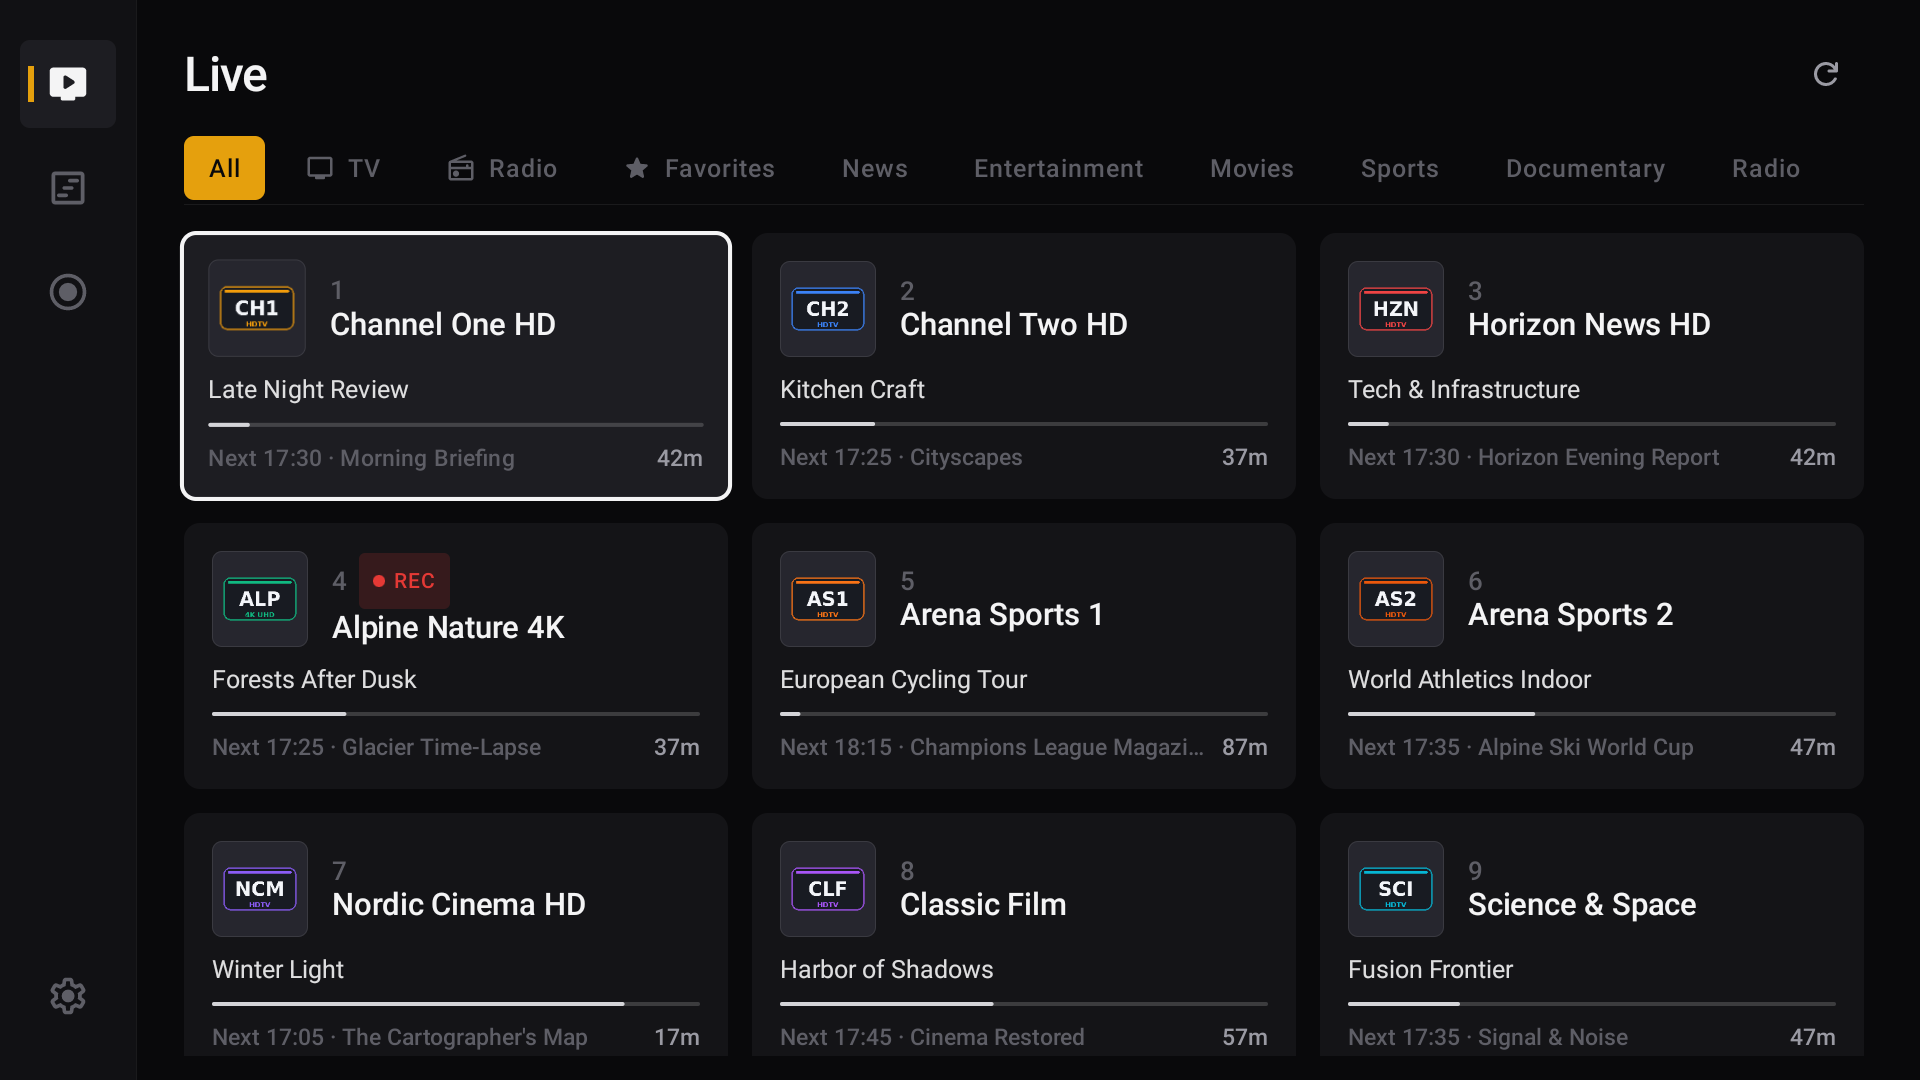
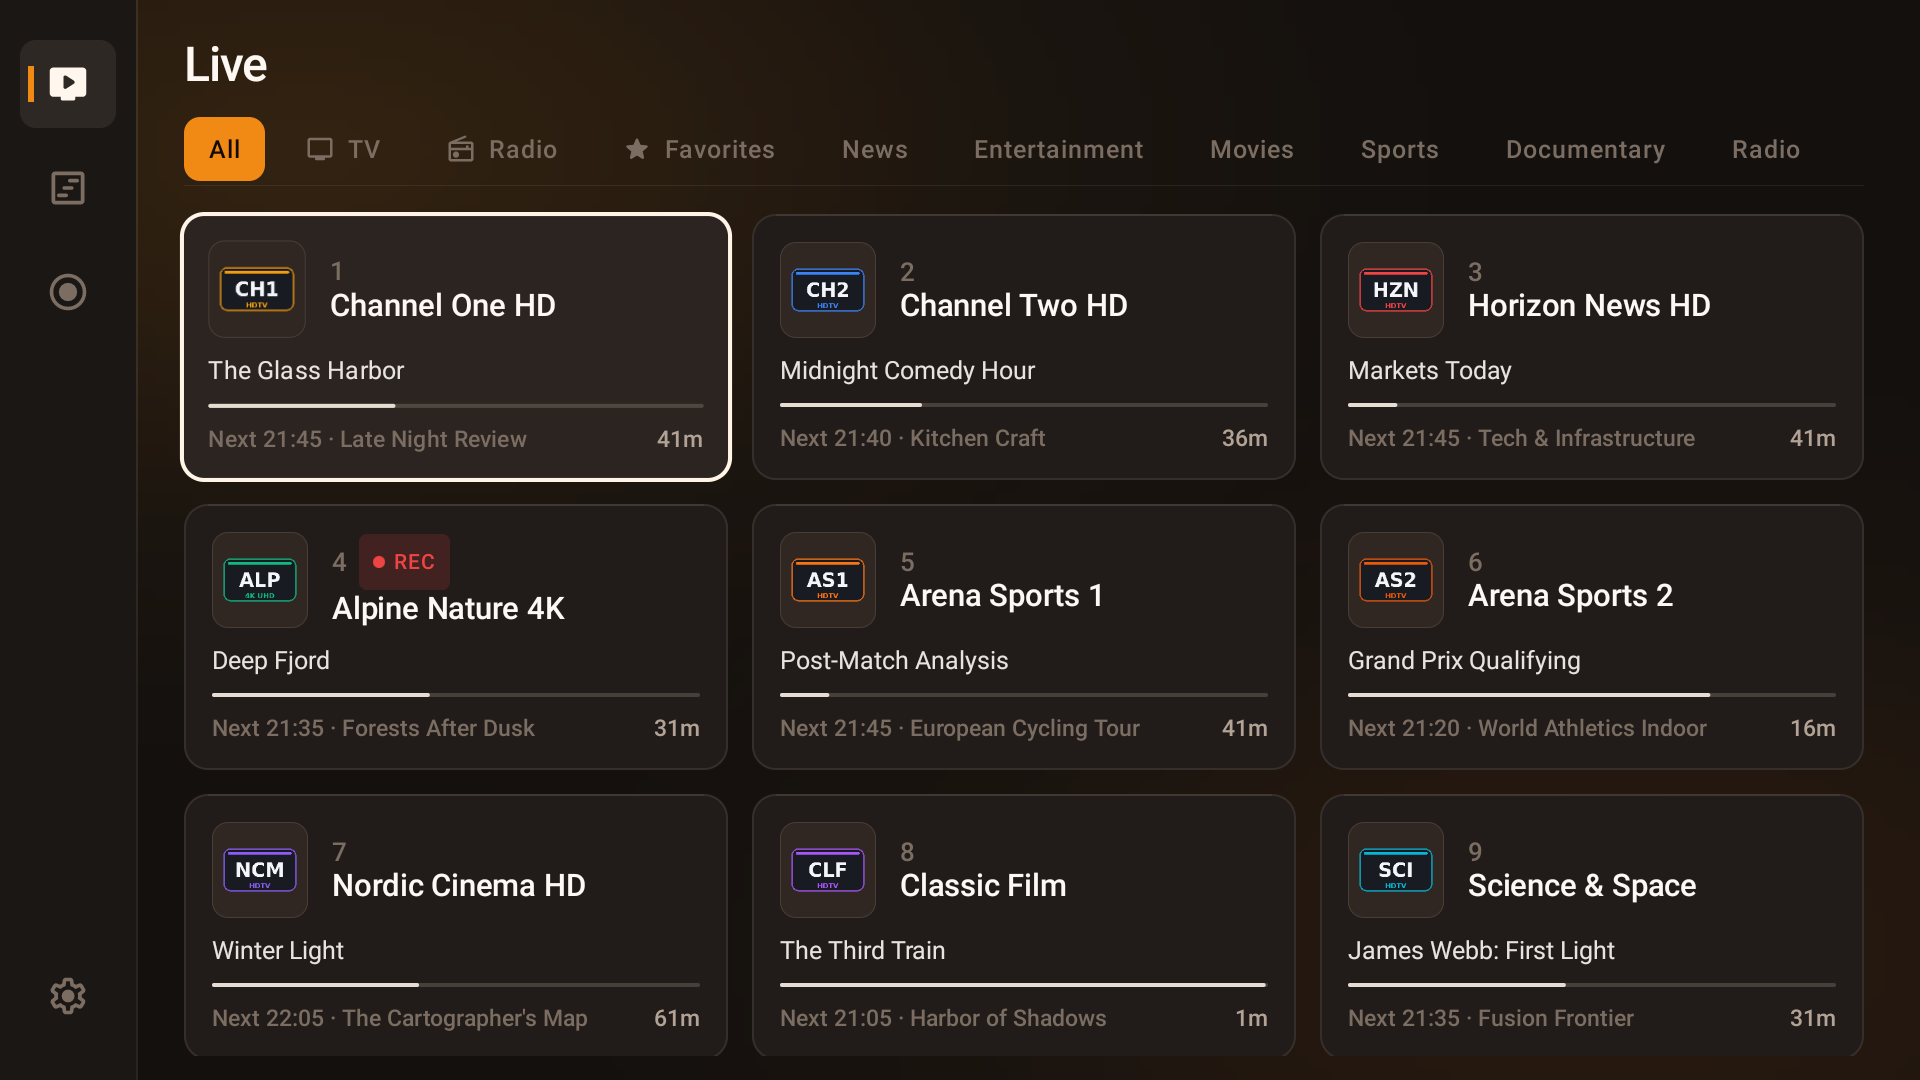
chore: release v0.9.0

diff --git a/README.md b/README.md
@@ -8,7 +8,7 @@
   <a href="#download--install"><img src="https://img.shields.io/badge/minSdk-28%20(Android%209%2B)-3DDC84?logo=android&logoColor=white" alt="minSdk 28 (Android 9+)" /></a>
 </p>
 
-A lightweight, native Android and Android TV client for **Tvheadend** (`4.3+`), built for sub-second channel zapping, local live pause/rewind (timeshift), smooth playback of completed and actively recording DVR shows, background audio playback on mobile, and a low-glare **Broadcast Monitor** dark interface (Carbon & Signal Amber).
+A lightweight, native Android and Android TV client for **Tvheadend** (`4.3+`), built for sub-second channel zapping, local live pause/rewind (timeshift), smooth playback of completed and actively recording DVR shows, background audio playback on mobile, and a low-glare **Broadcast Monitor** dark interface across four themes (**Amber**, **Carbon**, **Aurora**, and **Indigo**).
 
 Built as a **single unified codebase** producing ABI-split APKs for Android phones, tablets, and Android TV / Google TV devices (`minSdk 28`).
 
@@ -40,21 +40,23 @@ Built as a **single unified codebase** producing ABI-split APKs for Android phon
   - Disk-backed local `libmpv` ring buffer with configurable size limits in Settings (`Off`, `512 MB`, `1 GB`, `2 GB`, `4 GB`), free-space checks, and automatic recovery when pause reaches the forward buffer cap.
   - Buffered-range seekbar with `-MM:SS · Back to Live` quick jump.
 - **Program Guide (EPG):**
-  - **Phone & Tablet:** Free 2D-scrolling horizontal multi-channel timeline grid across portrait, landscape, and tablet (with a collapsible icon-only channel column when scrolling forward in portrait, plus keyboard/gamepad auto-follow), day tabs, **Now** jump, expandable icon-triggered search, and a program detail bottom sheet (**Watch Live**, **Record**, **Cancel Recording**).
-  - **Android TV:** Continuous horizontal timeline grid with sticky channel column, live "Now" hairline, D-pad Left/Right focus auto-follow across hours and days, top-bar program search, and a fixed-height bottom details bar for focused programs.
+  - **Phone & Tablet:** Free 2D-scrolling horizontal multi-channel timeline grid across portrait, landscape, and tablet (with a collapsible icon-only channel column when scrolling forward in portrait, plus keyboard/gamepad auto-follow), day tabs, **Now** jump, expandable icon-triggered search, and a unified program detail bottom sheet (**Watch Live**, **Watch from Start** / **Resume Chase Play**, **Start Over**, **Record**, **Stop & Save**, **Cancel Timer**).
+  - **Android TV:** Continuous horizontal timeline grid with sticky channel column, live "Now" hairline, D-pad Left/Right focus auto-follow across hours and days, top-bar program search, a fixed-height bottom details bar for focused programs, and a unified show details & DVR actions modal.
 - **DVR & Recording Management:**
   - Dedicated sections/shelves for **Recording Now**, **Completed** (grouped by series/title), and **Scheduled** timers.
   - Schedule, stop, cancel, and delete recordings directly via HTSP.
-  - **Watch from Start (Chase-Play):** Seamless playback and seeking of actively growing recordings over an in-process HTSP VFS tail-follow loopback proxy (`LocalMediaProxy`).
+  - **Watch from Start (Chase-Play) & Start Over:** Seamless Live ↔ Chase-Play handoff, **Start Over**, and fast seeking of actively growing recordings over an in-process HTSP VFS tail-follow loopback proxy (`LocalMediaProxy`).
   - Server-side resume position (`playposition`) and watched state (`playcount`) synced across devices, with local fallback for read-only users.
 - **Background Audio & Picture-in-Picture (Phone & Tablet):**
   - Media3 `MediaSessionService` foreground playback with lock-screen controls, Bluetooth/headset media keys, audio focus handling, headphone-disconnect pause, and Wi-Fi/partial wake locks.
   - Persistent mini-player bar and unified **Background Playback** selector (`Off`, `Audio` with `vid=no` backgrounding, or `PiP`) in Settings, with automatic radio backgrounding.
 - **Tailored Mobile & 10-ft TV Controls:**
-  - **Mobile:** Swipeable category/filter tabs on Live TV and Recordings, double-tap seek (`-10s` / `+30s`), vertical edge drags for brightness and volume, aspect ratio selector, in-player **Playback Info** diagnostics, persisted subtitle preferences, Quick-Zap channel drawer, adaptive tablet/landscape layout, **Auto / Light / Dark** themes, in-app **Language** selector (English & Hungarian, plus Android 13+ per-app language), configurable **Start Screen**, and Haze backdrop blur on non-video chrome.
-  - **Android TV:** Collapsible left Navigation Rail (`androidx.tv:tv-material`), instant `Ch+`/`Ch-` / D-pad Up/Down zapping with minimal OSD, progressive D-pad seeking (`10s → 30s → 1m → 5m → 10m` tap ladder with gear-locked continuous hold capped at `30s`), in-player **Playback Info** panel, **Auto / Light / Dark** themes, in-app **Language** selector, configurable **Start Screen**, and an overlay Quick Channel Strip.
+  - **Mobile:** Swipeable category/filter tabs on Live TV and Recordings, unified player timeline transport (`|<` / `>|` for Start Over, Chase-Play, and Live), double-tap seek (`-10s` / `+30s`), vertical edge drags for brightness and volume, aspect ratio selector, in-player **Playback Info** diagnostics, persisted subtitle preferences, Quick-Zap channel drawer, adaptive tablet/landscape layout, 4 dark themes (**Amber**, **Carbon**, **Aurora**, **Indigo**) with shader-backed backdrops, **Radio Ambient Glow** toggle, in-app **Language** selector (English & Hungarian, plus Android 13+ per-app language), configurable **Start Screen**, and Haze backdrop blur on non-video chrome.
+  - **Android TV:** Collapsible left Navigation Rail (`androidx.tv:tv-material`), instant `Ch+`/`Ch-` / D-pad Up/Down zapping with minimal OSD, unified player timeline transport (`|<` / `>|`), progressive D-pad seeking (`10s → 30s → 1m → 5m → 10m` tap ladder with gear-locked continuous hold capped at `30s`), in-player **Playback Info** panel, 4 dark themes (**Amber**, **Carbon**, **Aurora**, **Indigo**) with shader-backed backdrops, **Radio Ambient Glow** toggle, in-app **Language** selector, configurable **Start Screen**, and an overlay Quick Channel Strip.
 
 ## Server Setup (Tvheadend)
+
+MuxGrid includes a guided **3-step Onboarding Wizard & Server Preflight Diagnostics** (accessible during setup and in **Settings → Server Diagnostics**) to verify HTSP (`9982/tcp`), HTTP (`9981/tcp`), DVR permissions, `pass` stream profile availability, clock drift, and DVR disk space.
 
 MuxGrid requires **Tvheadend 4.3+** with both **HTSP (`9982/tcp`)** and **HTTP (`9981/tcp`)** reachable over your LAN or VPN, and the **`pass`** stream profile enabled.
 

diff --git a/CHANGELOG.md b/CHANGELOG.md
@@ -2,6 +2,29 @@
 
 All notable changes to **MuxGrid** are documented in this file.
 
+## [0.9.0] — 2026-11-27 — Tune in, glow up
+
+### 4-Theme Redesign & Cross-Platform UX
+- Replaced the Auto / Light / Dark themes with four OLED-safe dark palettes: **Amber** (default & legacy fallback), **Carbon**, **Aurora**, and **Indigo** (`ThemeMode`, `MuxGridColors`, `MuxGridTheme`, `MuxGridTokens`).
+- Added shader-backed root backdrops (`MuxGridCanvasBackdrop`) using AGSL `RuntimeShader` smoothstep/dither on API 33+ and a bilinear-upscaled offscreen fallback on API 28–32, paired with translucent Haze card blur for **Aurora** on mobile.
+- Unified Settings pickers (`MuxGridSegmentedControl`, `MuxGridThemeSwatchPicker`, `MuxGridRadioOptionRow`, and pop-up language selector), harmonized Mobile and TV navigation active indicators and modal actions, and refined EPG Now/Live hierarchy (`2dp` Now hairline, `EpgLiveSurface`, live/recording side stripe).
+
+### Audio-Reactive Ambient Radio Glow
+- Added audio-reactive **Ambient Radio Glow** (`AmbientRadioGlow`, `AmbientRadioGlowEngine`, `AudioLevelMapper`) for Mobile (`MobilePlayerScreen`) and 10-ft Android TV (`TvAudioStage` in `TvPlayerScreen`), driven by a zero-permission `libmpv` FFmpeg `astats` audio meter with draw-phase AGSL rendering (API 33+) / pre-allocated offscreen fallback (API 28–32) and a persisted **Radio Ambient Glow** toggle in Settings.
+- Pre-attached the audio meter to eliminate radio startup stutter and kept the mobile radio stage centered when the player HUD is visible.
+
+### Playback, Chase-Play & Unified Modals
+- Added seamless **Live ↔ Chase-Play** handoff, **Start Over**, and unified channel/program/recording detail modals across Mobile and Android TV.
+- Unified Mobile and TV player HUD timeline transport controls (`|<`, `-10s`/`-30s`, `Play/Pause`, `+30s`, `>|`) for quick jumps between live edge, start over, and timeshift buffer start.
+
+### Onboarding Wizard, Preflight Diagnostics & Startup Performance
+- Added an adaptive 3-step **Server Setup** wizard (`Host` → `Ports` → `Account & Preflight`) and **Server Preflight Diagnostics** (`ServerDiagnosticsRunner`, `ServerDiagnosticsUi`) verifying HTSP streaming, HTTP media, HTSP DVR access, `pass` profile availability, HTSP version, clock drift, and DVR disk space during onboarding and in **Settings → Server Diagnostics**.
+- Optimized HTSP startup pipelining and diagnostics concurrency (`HtspClient`, `HtspSession`).
+
+### Localization & Navigation Polish
+- Centralized translatable UI strings and plurals in `:core:designsystem`, added an in-app **Language** selector (`Settings → General → Language`) alongside Android 13+ per-app locale support (`AppLocaleManager`, `generateLocaleConfig`), added full **Hungarian (`hu`)** localization, string parity tests (`StringResourcesTest`), and `docs/TRANSLATIONS.md`.
+- Added swipeable `HorizontalPager` category/filter tabs on mobile Live TV and Recordings (`MobileFeature`, `MobileRecordingsScreen`, `BroadcastPagerTabRowTest`) and removed redundant manual refresh actions in favor of automatic real-time HTSP push sync.
+
 ## [0.8.1] — 2026-11-22 — Ready for a splash?
 
 ### Cold-Start Splash & Unified Syncing UX
